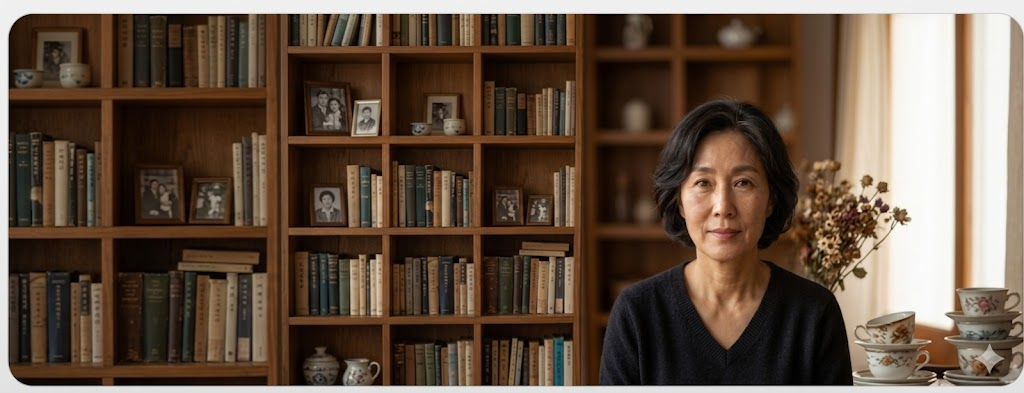
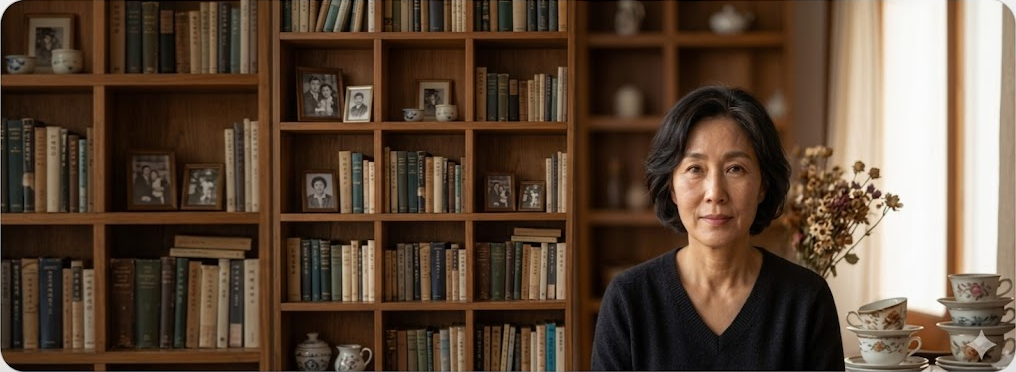
[FIX] 이미지 오류 해결

diff --git a/src/components/common/banner-component.jsx b/src/components/common/banner-component.jsx
@@ -32,7 +32,7 @@ const bannerData = [
 
 const Banner = () => {
     return (
-        <div className="flex-col w-screen bg-[#F8F9FA] overflow-x-hidden">
+        <div className="flex-col w-full overflow-x-hidden">
             <div className="w-full bg-white">
                 <div className="flex overflow-x-auto snap-x snap-mandatory gap-[12px] [&::-webkit-scrollbar]:hidden">
                     {bannerData.map((banner, index) => (
@@ -42,15 +42,16 @@ const Banner = () => {
                             className={`shrink-0 w-[90%] h-[120px] rounded-[8px] p-[16px] flex flex-col justify-center relative snap-center shadow-md`}
                         style={{
                                 backgroundImage: `linear-gradient(rgba(0,0,0,0.5), rgba(0,0,0,0.5)), url(${banner.imageUrl})`,
-                                backgroundSize: 'cover',
-                                backgroundPosition: 'center'
+                                backgroundSize: '100% 100%',
+                                backgroundPosition: 'center',
+                                backgroundRepeat: 'no-repeat'
                             }}>
                             {/* 배너 텍스트 */}
                             <h2 className="text-white text-[17px] font-medium leading-[24px] break-keep whitespace-pre-line z-10">
                                 {banner.title}
                             </h2>
                             
-                            {/* 부고장/인사말 액션 텍스트 */}
+                            {/* 액션 텍스트 */}
                             {banner.actionText && (
                                 <p className="text-white text-[12px] font-medium mt-[5px] underline underline-offset-2 cursor-pointer z-10">
                                     {banner.actionText}
@@ -58,9 +59,8 @@ const Banner = () => {
                             )}
 
                             {/* 우측 하단 페이지네이션 (예: 1/4 전체 >) */}
-                            <div className="absolute bottom-[8px] right-[8px] bg-white/40 text-white text-[11px] font-regular px-[6px] py-[2px] rounded-[20px] flex items-center gap-[2px]">
-                                {index + 1}/{bannerData.length} 전체 
-                                <span className="text-[11px] ml-[2px] opacity-80">&#10095;</span>
+                            <div className="absolute bottom-[8px] right-[8px] bg-white/20 text-white text-[11px] font-regular px-[8px] py-[2px] rounded-[20px] flex items-center gap-[2px]">
+                                {index + 1} / {bannerData.length}
                             </div>
                         </div>
                     ))}
